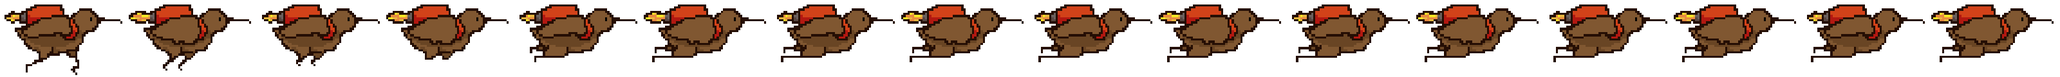
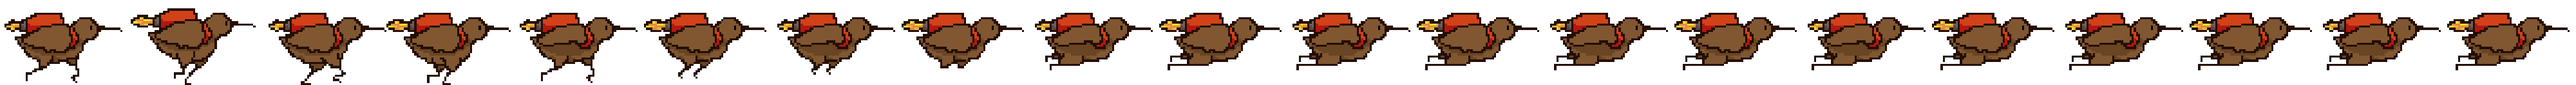
Win/lose/flying skins and panels

diff --git a/core/src/com/mygdx/menudemo/level.java b/core/src/com/mygdx/menudemo/level.java
@@ -46,10 +46,10 @@ public class level extends ScreenAdapter {
     private static final int COINS_DEFAULT = 0;
     private static final String ACTUAL_SKIN = "default";
     private static final float FRAME_DURATION = 0.4f;
-    private static final int WINNING_TILE_HEIGHT = 119;
-    private static final int WINNING_TILE_WIDTH = 199;
-    private static final int LOOSING_TILE_HEIGHT = 120;
-    private static final int LOOSING_TILE_WIDTH = 236;
+    private static final int WINNING_TILE_HEIGHT = 133;
+    private static final int WINNING_TILE_WIDTH = 200;
+    private static final int LOOSING_TILE_HEIGHT = 140;
+    private static final int LOOSING_TILE_WIDTH = 237;
     private static final float LOOSE_FRAME_DURATION = 0.2F;
     private static int LEVEL;
     private static final float DEFAULT_CHUNCK_SIZE = 11 ;
@@ -238,7 +238,7 @@ public class level extends ScreenAdapter {
                 kiiwWinningTexture = menuDemo.getAssetManager().get("defaultLevels/WinningKiwi.png");
                 kiiwLoosingTexture = menuDemo.getAssetManager().get("defaultLevels/LosingKiwi.png");
             }else if(skin.compareTo("ricardo") == 0){
-                kiiwTexture = menuDemo.getAssetManager().get("defaultLevels/RicardoKiwi.png");
+                kiiwTexture = menuDemo.getAssetManager().get("defaultLevels/ricardoKiwi.png");
                 kiiwWinningTexture = menuDemo.getAssetManager().get("defaultLevels/WinningKiwi.png");
                 kiiwLoosingTexture = menuDemo.getAssetManager().get("defaultLevels/LosingKiwi.png");
             }
@@ -526,8 +526,8 @@ public class level extends ScreenAdapter {
                 }
             });
 
-            skipButtonTexture=menuDemo.getAssetManager().get("level1/skip.png");
-            buttonPressTexture=menuDemo.getAssetManager().get("level1/skipPress.png");
+            skipButtonTexture=menuDemo.getAssetManager().get("defaultLevels/panelSkip.png");
+            buttonPressTexture=menuDemo.getAssetManager().get("defaultLevels/skipPress.png");
 
             ImageButton skipButton = new ImageButton(new TextureRegionDrawable(new TextureRegion(skipButtonTexture)), new TextureRegionDrawable(new TextureRegion(buttonPressTexture)));
             skipButton.setPosition(WORLD_WIDTH-1.1f*skipButton.getWidth(),WORLD_HEIGHT-1.1f*skipButton.getHeight());
@@ -564,8 +564,8 @@ public class level extends ScreenAdapter {
                     updateTutorial(0);
                 }
             });
-            skipButtonTexture=menuDemo.getAssetManager().get("level1/skip.png");
-            buttonPressTexture=menuDemo.getAssetManager().get("level1/skipPress.png");
+            skipButtonTexture=menuDemo.getAssetManager().get("defaultLevels/panelSkip.png");
+            buttonPressTexture=menuDemo.getAssetManager().get("defaultLevels/skipPress.png");
 
             ImageButton skipButton = new ImageButton(new TextureRegionDrawable(new TextureRegion(skipButtonTexture)), new TextureRegionDrawable(new TextureRegion(buttonPressTexture)));
             skipButton.setPosition(WORLD_WIDTH-1.1f*skipButton.getWidth(),WORLD_HEIGHT-1.1f*skipButton.getHeight());
@@ -603,8 +603,8 @@ public class level extends ScreenAdapter {
                     updateTutorial(1);
                 }
             });
-            skipButtonTexture=menuDemo.getAssetManager().get("level1/skip.png");
-            buttonPressTexture=menuDemo.getAssetManager().get("level1/skipPress.png");
+            skipButtonTexture=menuDemo.getAssetManager().get("defaultLevels/panelSkip.png");
+            buttonPressTexture=menuDemo.getAssetManager().get("defaultLevels/skipPress.png");
 
             ImageButton skipButton = new ImageButton(new TextureRegionDrawable(new TextureRegion(skipButtonTexture)), new TextureRegionDrawable(new TextureRegion(buttonPressTexture)));
             skipButton.setPosition(WORLD_WIDTH-1.1f*skipButton.getWidth(),WORLD_HEIGHT-1.1f*skipButton.getHeight());
@@ -643,8 +643,8 @@ public class level extends ScreenAdapter {
                 }
             });
 
-            skipButtonTexture=menuDemo.getAssetManager().get("level1/skip.png");
-            buttonPressTexture=menuDemo.getAssetManager().get("level1/skipPress.png");
+            skipButtonTexture=menuDemo.getAssetManager().get("defaultLevels/panelSkip.png");
+            buttonPressTexture=menuDemo.getAssetManager().get("defaultLevels/skipPress.png");
             ImageButton skipButton = new ImageButton(new TextureRegionDrawable(new TextureRegion(skipButtonTexture)), new TextureRegionDrawable(new TextureRegion(buttonPressTexture)));
             skipButton.setPosition(WORLD_WIDTH-1.1f*skipButton.getWidth(),WORLD_HEIGHT-1.1f*skipButton.getHeight());
             skipButton.addListener(new ActorGestureListener() {

diff --git a/core/src/com/mygdx/menudemo/LoadingScreen.java b/core/src/com/mygdx/menudemo/LoadingScreen.java
@@ -103,8 +103,8 @@ public class LoadingScreen extends ScreenAdapter {
         menuDemo.getAssetManager().load("defaultLevels/WinningKiwi.png", Texture.class);
         menuDemo.getAssetManager().load("defaultLevels/LosingKiwi.png", Texture.class);
         menuDemo.getAssetManager().load("defaultLevels/lifesNull.png", Texture.class);
-        menuDemo.getAssetManager().load("level1/skip.png", Texture.class);
-        menuDemo.getAssetManager().load("level1/skipPress.png", Texture.class);
+        menuDemo.getAssetManager().load("defaultLevels/panelSkip.png", Texture.class);
+        menuDemo.getAssetManager().load("defaultLevels/skipPress.png", Texture.class);
     }
 
     @Override

diff --git a/core/src/com/mygdx/menudemo/Kiiw.java b/core/src/com/mygdx/menudemo/Kiiw.java
@@ -33,7 +33,7 @@ public class Kiiw {
             animation = new Animation(FRAME_DURATION, kiiwTextures[0][0], kiiwTextures[0][1],kiiwTextures[0][2],kiiwTextures[0][3]);
             animation.setPlayMode(Animation.PlayMode.LOOP);
         }else{
-            TextureRegion [][] kiiwTextures = new TextureRegion(kiiwTexture).split(190, 96);
+            TextureRegion [][] kiiwTextures = new TextureRegion(kiiwTexture).split(192, 119);
             animation = new Animation(FRAME_DURATION, kiiwTextures[0][0], kiiwTextures[0][1]);
             animation.setPlayMode(Animation.PlayMode.LOOP);
         }

diff --git a/core/src/com/mygdx/menudemo/SettingsScreen.java b/core/src/com/mygdx/menudemo/SettingsScreen.java
@@ -21,8 +21,8 @@ import com.badlogic.gdx.utils.viewport.FitViewport;
 
 class SettingsScreen extends ScreenAdapter {
 
-    private static final float MUSIC_VOLUME_DEFAULT = 1;
-    private static final float EFFECTS_VOLUME_DEFAULT = 1;
+    private static final float MUSIC_VOLUME_DEFAULT = 100;
+    private static final float EFFECTS_VOLUME_DEFAULT = 100;
     private final MenuDemo menuDemo;
     private static final float WORLD_WIDTH = 1280;
     private static final float WORLD_HEIGHT = 720;
